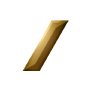
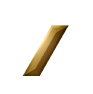
Rank tweaks

Changed region(s): [[0.2391, 0.2174, 0.7609, 0.8261]]

diff --git a/js/dewrito.js b/js/dewrito.js
@@ -393,7 +393,7 @@ function changeSetting(s, by) {
 }
 
 function loadParty() {
-	if(party !== previous.party) {
+	//if(party !== previous.party) {
 		$('#party').empty();
 		$('#current-party').empty().append("<tr class='top' hex-colour='#000000' data-color='" + hexToRgb("#000000", 0.5) + "' style='background:" + hexToRgb("#000000", 0.5) + ";'><td class='info' colspan='2'>Current Party <span class='numbers'><span id='current-party-count'>"+party.length+"</span>/16</span></td></tr>");
 		if(party.length > 0) {
@@ -404,7 +404,7 @@ function loadParty() {
 					name: party[i].name,
 					guid: party[i].guid,
 					colour: party[i].colour,
-					rank: 0
+					rank: party[i].rank
 				}, isDev);
 			}
 			$('.friend,#friend-add,#friend-remove').hover(function() {
@@ -416,8 +416,8 @@ function loadParty() {
 			$('#party').append("<div class='nofriends'>You're not partying :(</div>");
 			$('#current-party').empty();
 		}
-	}
-	previous.party = party;
+	//}
+	//previous.party = party;
 }
 
 function updateFriends() {
@@ -580,7 +580,7 @@ function getPlayerUIDFromFriends(name) {
 	return "";
 }
 
-function addFriend(name) {
+function addFriend(player) {
 	if(name !== null || name !== "" || name !== undefined) {
 		$('#friend-input').val("");
 		if(friends.indexOf(name) == -1) {

diff --git a/js/friends.js b/js/friends.js
@@ -116,7 +116,7 @@ StartConnection = function() {
 						}
 
 						party = $.grep(party, function(value) {
-						  return value != (result.player + ":" + result.guid + ":" + getPlayerColour(result.guid));
+						  return value.guid != result.player.guid);
 						});
 
 						for (var i = 0; i < party.length; i++) {
@@ -213,6 +213,7 @@ StartConnection = function() {
 
 				break;
 				case "rank":
+					console.log(result);
 					player.rank = parseInt(result.rank);
 					loadParty();
 				break;
